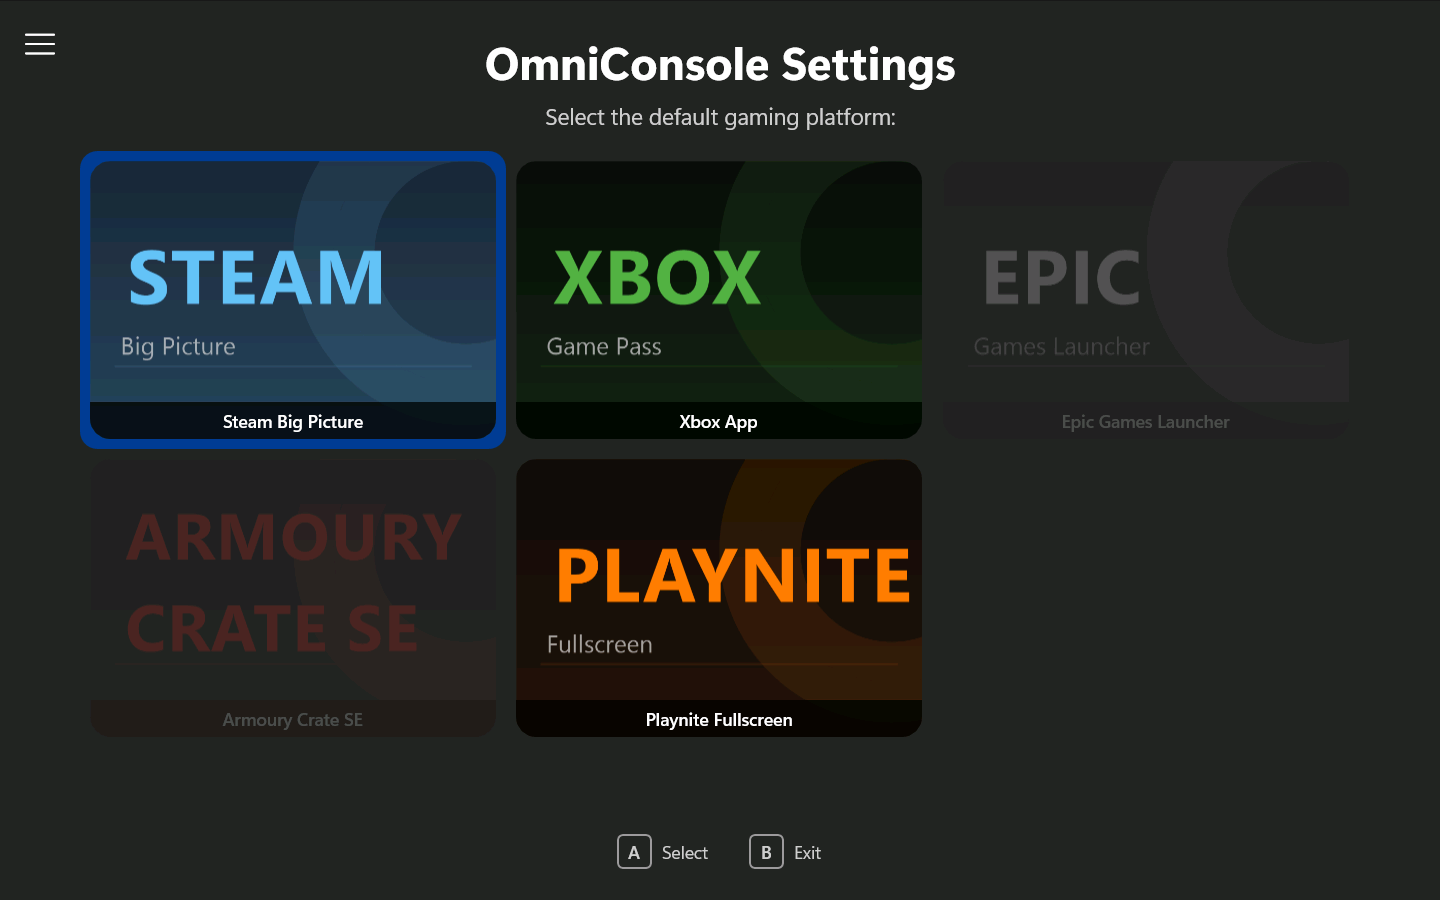
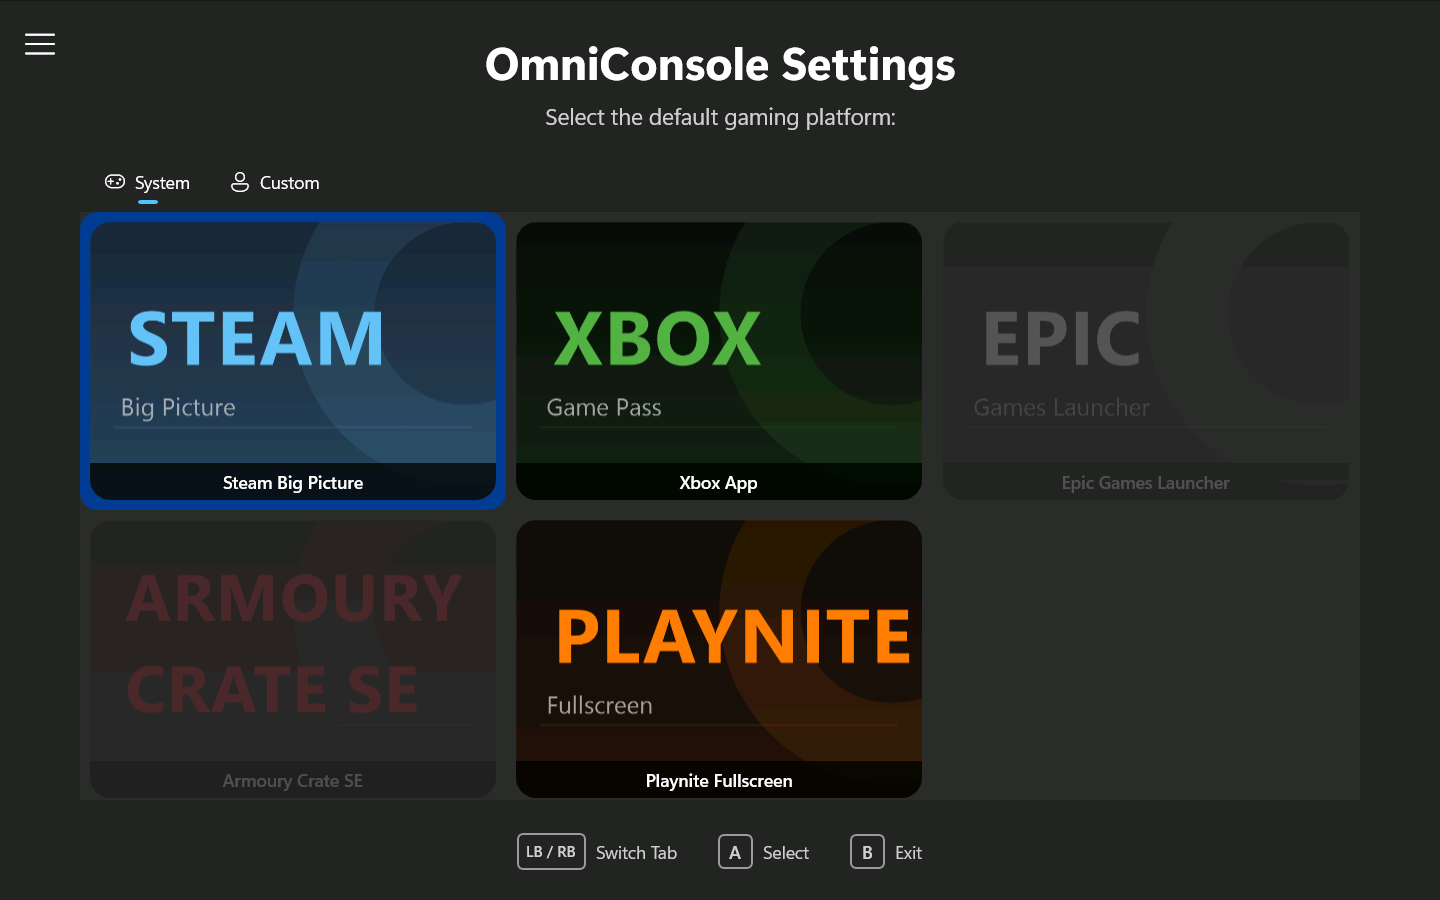
chore: Bump version to 0.8.0.0 and document custom platform features
- Bumped the application package version to `0.8.0.0` in `Package.appxmanifest`.
- Added `v0.8.0.0` to the version dropdown within the GitHub issue template.
- Updated the features list in the READMEs to officially highlight the new "Custom Platform Support".
- Expanded the Gamepad Support documentation to include the newly added `LB/RB` (switch tabs), `Y` (add), and `X` (edit) button controls.
- Updated the application settings screenshots to reflect the new UI with System/Custom category tabs.

diff --git a/README.md b/README.md
@@ -42,10 +42,11 @@ OmniConsole serves as the Windows 11 Full Screen Experience (FSE) Home shell on 
 - **Automatic Platform Launch** – Launches your configured gaming platform on activation.
 - **Automatic FSE Entry** – When launched outside of FSE mode (e.g., from the Start Menu), OmniConsole automatically triggers the FSE entry dialog.
 - **Multi-Platform Support** – Supports **Steam Big Picture**, **Xbox App**, **Epic Games Launcher**, **Armoury Crate SE**, and **Playnite Fullscreen**.
+- **Custom Platform Support (Experimental)** – Add your own platforms via Protocol URI or executable path, with optional launch arguments and card cover image.
 - **Card-Grid Settings UI** – Large icon cards designed for large-screen and handheld use, operable with mouse, touch, or Xbox controller.
 - **Game Bar Integration** – Configure how Game Bar's **"Home"** and **"Library"** buttons behave: open OmniConsole settings, launch your gaming platform, or pass through directly to a platform like Xbox App.
 - **Troubleshoot Page** – A dedicated page for emergency FSE recovery: kills Game Bar and enters FSE directly, bypassing the FSE confirmation dialog.
-- **Gamepad Support** – Navigate the platform card grid and settings pages with **D-Pad** or **Left Stick**, press **A** to confirm, and press **B** to exit.
+- **Gamepad Support** – Navigate with **D-Pad** or **Left Stick**, press **A** to confirm, **B** to exit, **LB/RB** to switch category tabs, **Y** to add a custom platform, and **X** to edit.
 - **Dedicated Settings Entry** – A separate "**OmniConsole Settings**" entry appears in All Apps, so you can change your default platform anytime.
 - **Native FSE Integration** – Registered as a Windows 11 Full Screen Experience Home App through the official FSE API.
 

diff --git a/README.zh-TW.md b/README.zh-TW.md
@@ -42,10 +42,11 @@ OmniConsole 作為 Windows 11 全螢幕體驗 (FSE) 首頁 Shell，在您的 PC 
 - **自動平台啟動** – 啟動時自動開啟已設定的遊戲平台。
 - **自動進入 FSE** – 在 FSE 模式外啟動（如從開始功能表），OmniConsole 會自動觸發 FSE 進入對話方塊。
 - **多平台支援** – 支援 **Steam Big Picture**、**Xbox App**、**Epic Games Launcher**、**Armoury Crate SE** 與 **Playnite Fullscreen**。
+- **自訂平台支援（實驗性功能）** – 透過 Protocol URI 或執行檔路徑新增自訂平台，可選填啟動參數與卡片封面圖。
 - **卡片網格設定介面** – 大圖示卡片版型，適合大螢幕與掌機使用，可透過滑鼠、觸控或 Xbox 手把操作。
 - **Game Bar 整合** – 自訂 Game Bar「**首頁**」與「**媒體櫃**」按鈕的行為：開啟 OmniConsole 設定、啟動遊戲平台，或直接導向 Xbox App 等平台。
 - **疑難排解頁面** – 專屬頁面提供緊急修復途徑：結束 Game Bar 並繞過 FSE 確認對話方塊，直接進入 FSE。
-- **手把完整支援** – 使用**方向鍵**或**左搖桿**在設定介面及平台卡片網格中導覽，按 **A 鍵**確認選取，按 **B 鍵**退出。
+- **手把完整支援** – 使用**方向鍵**或**左搖桿**導覽，**A 鍵**確認、**B 鍵**退出、**LB/RB** 切換分類索引標籤、**Y 鍵**新增自訂平台、**X 鍵**編輯。
 - **專屬設定入口** – 在「所有應用程式」中獨立顯示「**OmniConsole 設定**」，隨時可更改預設平台。
 - **原生 FSE 整合** – 透過 Windows 11 全螢幕體驗 API 註冊為首頁應用程式。
 
